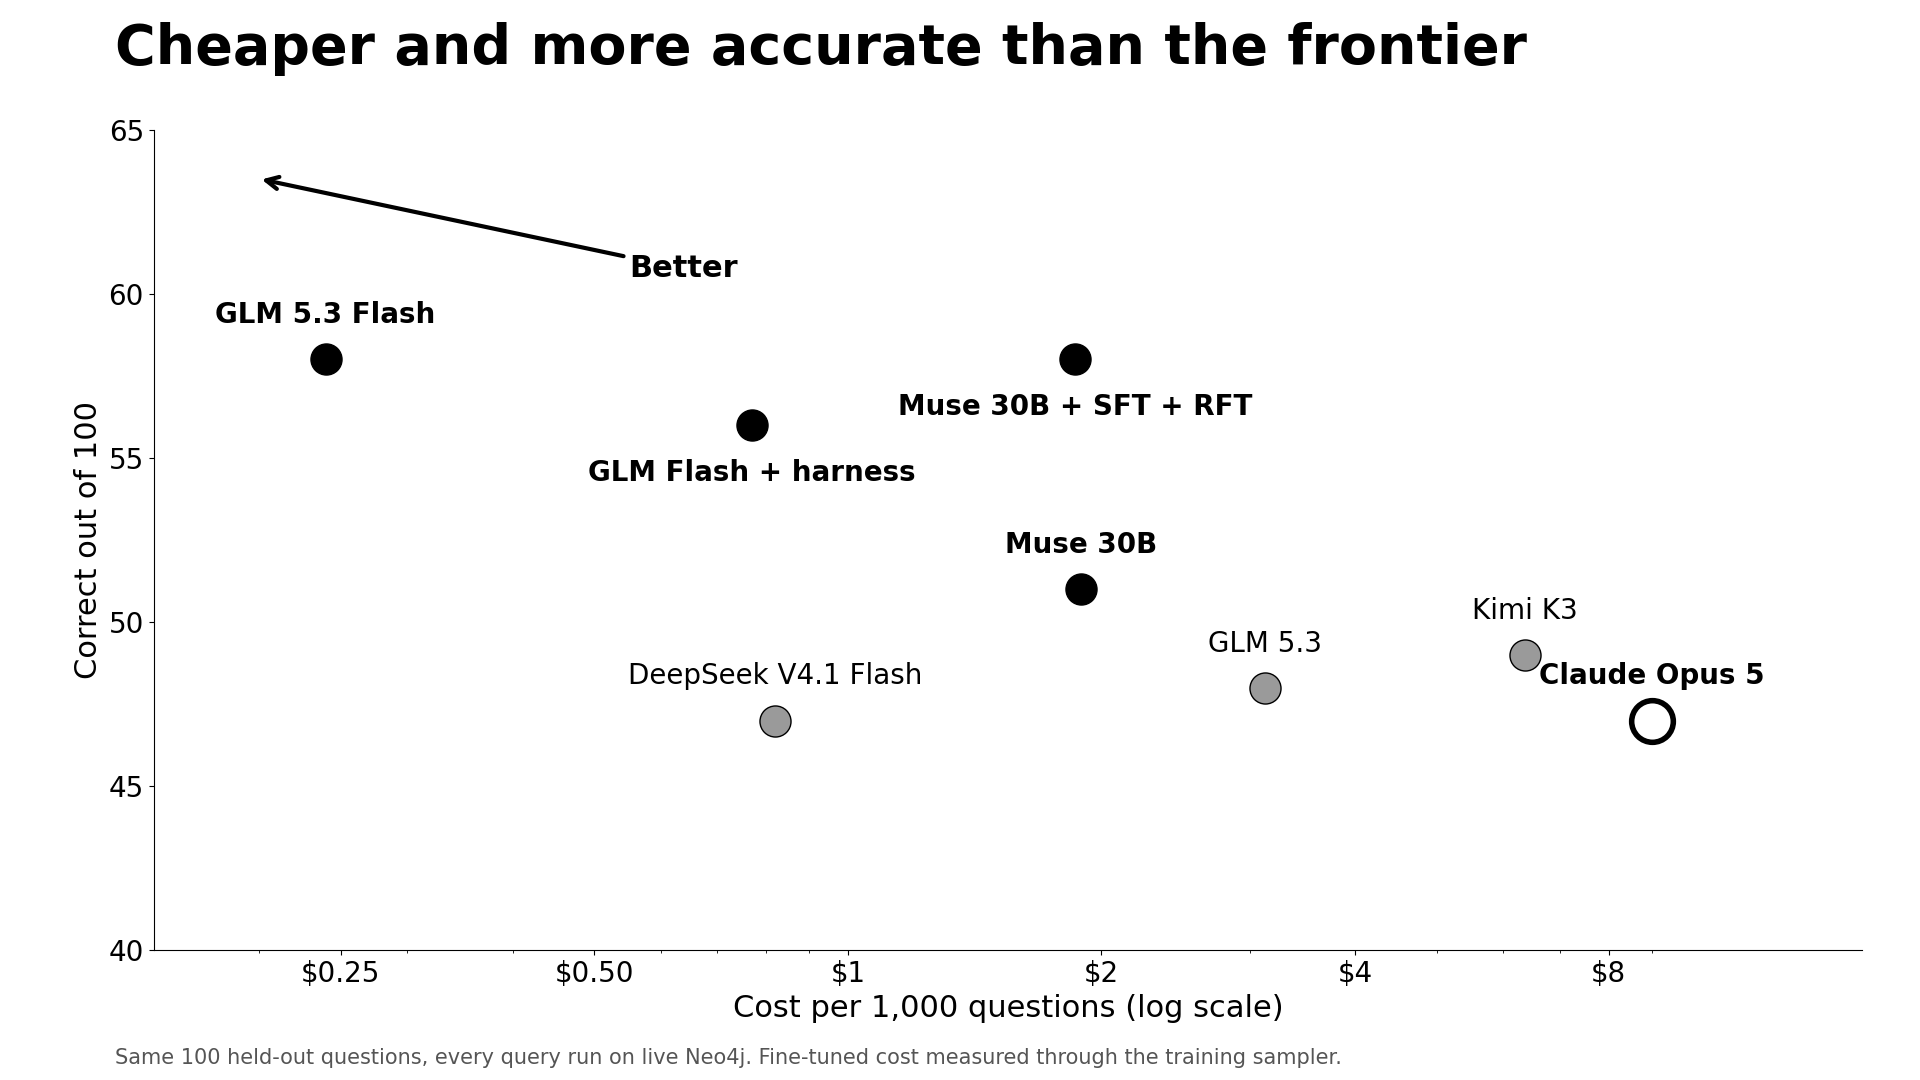
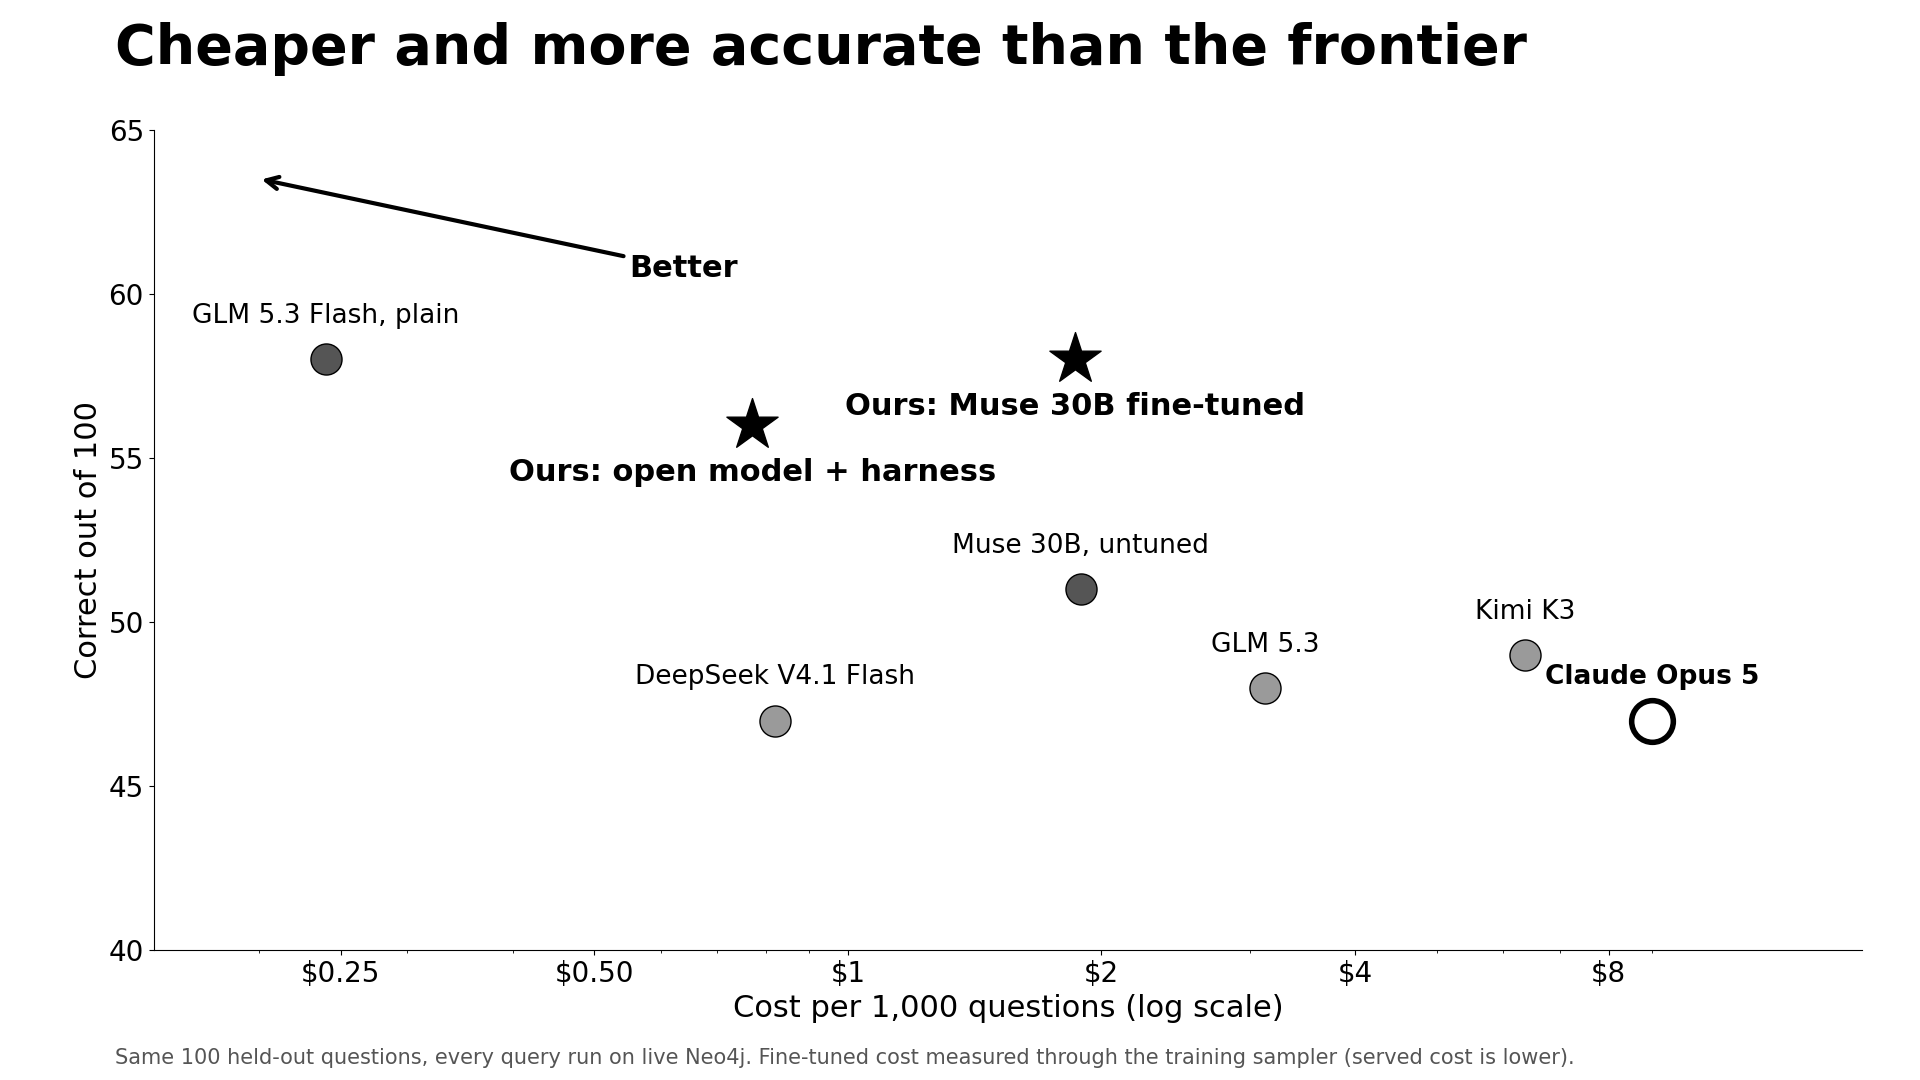
Auto-sync 16:19

diff --git a/hackathon/deck/make_frontier.py b/hackathon/deck/make_frontier.py
@@ -10,20 +10,21 @@ pts = [
     ("Kimi K3", 6.36, 49, "open"),
     ("GLM 5.3", 3.13, 48, "open"),
     ("DeepSeek V4.1 Flash", 0.82, 47, "open"),
-    ("GLM 5.3 Flash", 0.24, 58, "small"),
-    ("GLM Flash + harness", 0.77, 56, "small"),
-    ("Muse 30B", 1.89, 51, "small"),
-    ("Muse 30B + SFT + RFT", 1.86, 58, "small"),
+    ("GLM 5.3 Flash, plain", 0.24, 58, "small"),
+    ("Ours: open model + harness", 0.77, 56, "ours"),
+    ("Muse 30B, untuned", 1.89, 51, "small"),
+    ("Ours: Muse 30B fine-tuned", 1.86, 58, "ours"),
 ]
-col = {"closed": "#000000", "open": "#9a9a9a", "small": "#000000"}
+col = {"closed": "#000000", "open": "#9a9a9a", "small": "#555555", "ours": "#000000"}
 
 fig, ax = plt.subplots(figsize=(19.2, 10.8), dpi=100)
 for name, c, a, k in pts:
-    ax.scatter(c, a, s=900 if k == "closed" else 500, color="white" if k == "closed" else col[k],
+    ax.scatter(c, a, s=1500 if k == "ours" else (900 if k == "closed" else 500),
+               marker="*" if k == "ours" else "o", color="white" if k == "closed" else col[k],
                edgecolor="black", linewidth=4 if k == "closed" else 1, zorder=3)
-    dy = -2.2 if name in ("Muse 30B + SFT + RFT", "GLM Flash + harness") else 1.4
+    dy = -2.2 if name.startswith("Ours") else 1.4
     ax.annotate(name, (c, a), xytext=(0, 26 if dy > 0 else -40), textcoords="offset points",
-                ha="center", fontsize=20, weight="bold" if k != "open" else "normal")
+                ha="center", fontsize=22 if k == "ours" else 19, weight="bold" if k in ("ours", "closed") else "normal")
 
 ax.set_xscale("log")
 ax.set_xlim(0.15, 16)
@@ -38,7 +39,7 @@ for s in ("top", "right"):
 ax.annotate("Better", xy=(0.2, 63.5), xytext=(0.55, 60.5), fontsize=22, weight="bold",
             arrowprops=dict(arrowstyle="->", lw=3))
 fig.suptitle("Cheaper and more accurate than the frontier", fontsize=40, weight="bold", x=0.06, ha="left")
-fig.text(0.06, 0.015, "Same 100 held-out questions, every query run on live Neo4j. Fine-tuned cost measured through the training sampler.",
+fig.text(0.06, 0.015, "Same 100 held-out questions, every query run on live Neo4j. Fine-tuned cost measured through the training sampler (served cost is lower).",
          fontsize=15, color="#555555")
 fig.subplots_adjust(left=0.08, right=0.97, top=0.88, bottom=0.12)
 fig.savefig("/Users/raheelahmed/fireworks-hackathon/hackathon/deck/frontier.png")
